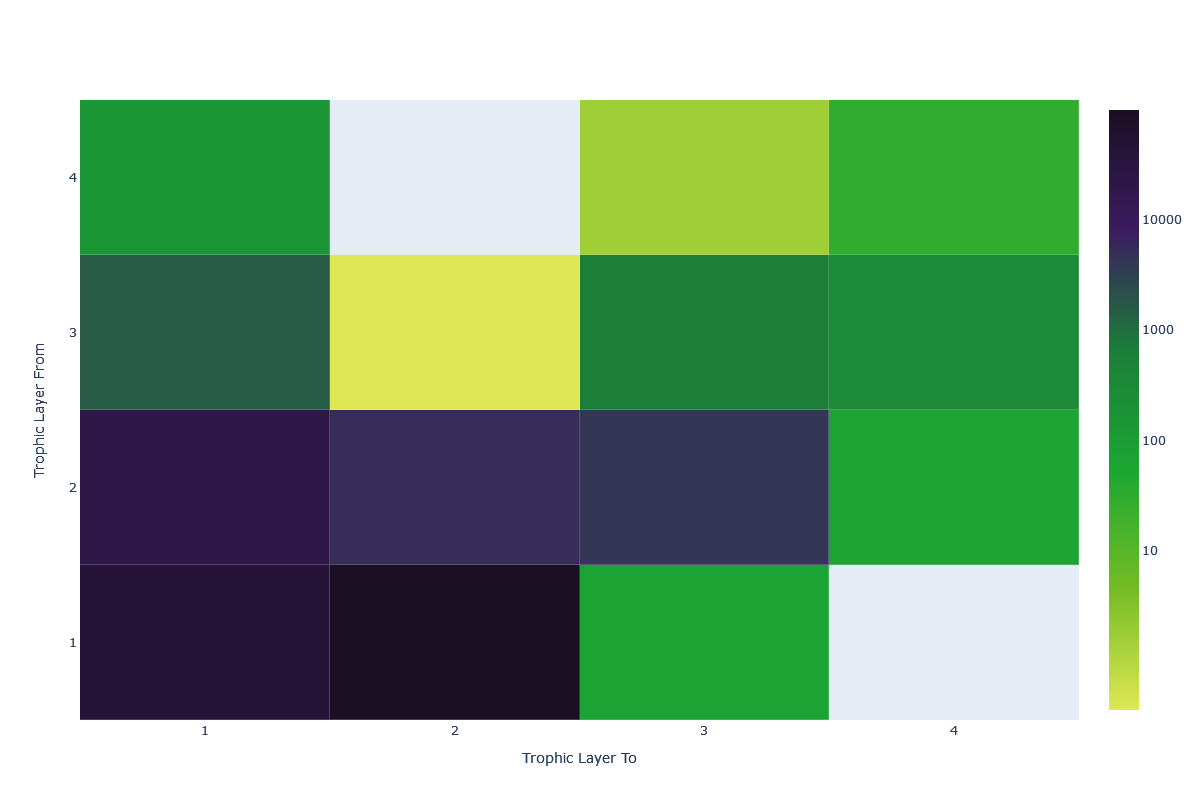
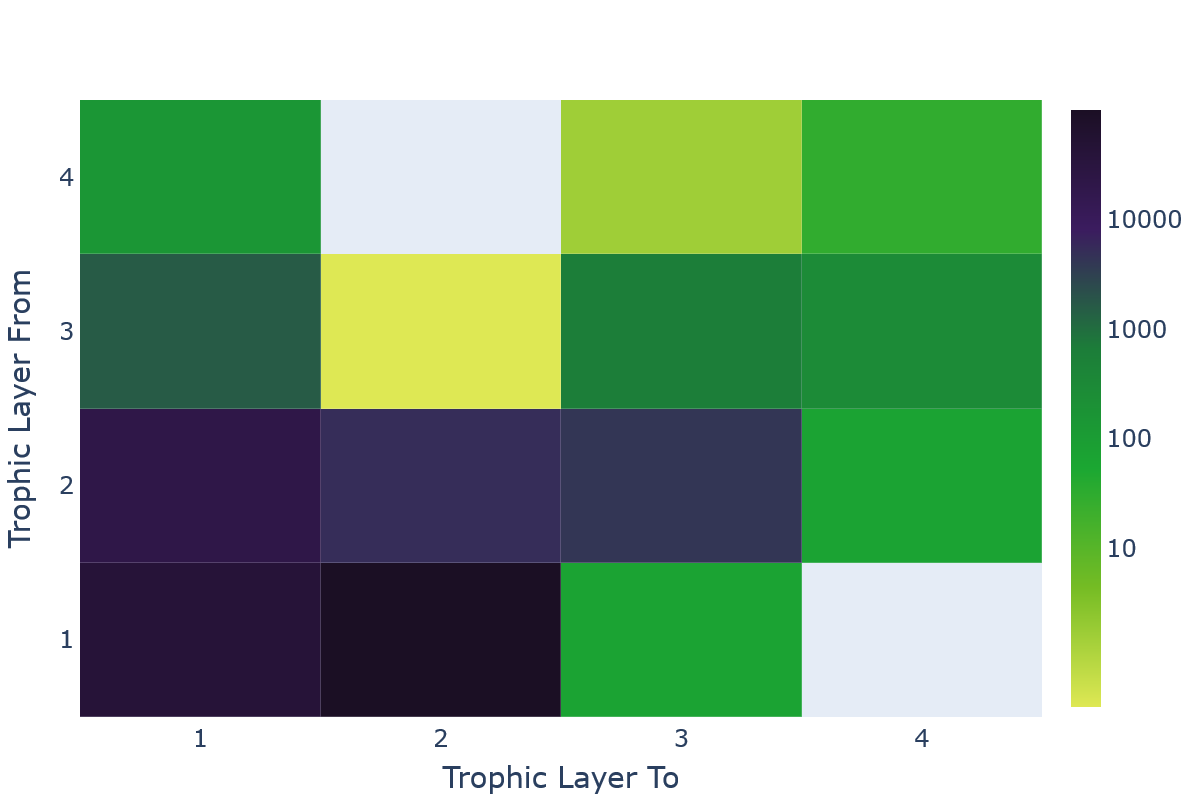
Enlarged font in trophic exchange summaries

diff --git a/foodwebviz/visualization.py b/foodwebviz/visualization.py
@@ -278,7 +278,8 @@ def draw_trophic_flows_heatmap(food_web, switch_axes=False, log_scale=False, wid
                       yaxis={'title': 'Trophic Layer From'if not switch_axes else 'Trophic Layer To',
                              'dtick': 1},
                       xaxis={'title': 'Trophic Layer To' if not switch_axes else 'Trophic Layer From',
-                             'dtick': 1}
+                             'dtick': 1},
+                      font={'size': 24}
                       )
     return fig
 
@@ -324,7 +325,7 @@ def draw_trophic_flows_distribution(food_web, normalize=True, width=1000, height
     fig.update_layout(yaxis={'title': 'Trophic Layer From', 'tickformat': ',d'},
                       xaxis={'title': 'Percentage of flow'},
                       legend_title='Trophic Layer To',
-                      font={'size': 18})
+                      font={'size': 22})
 
     return fig
 
